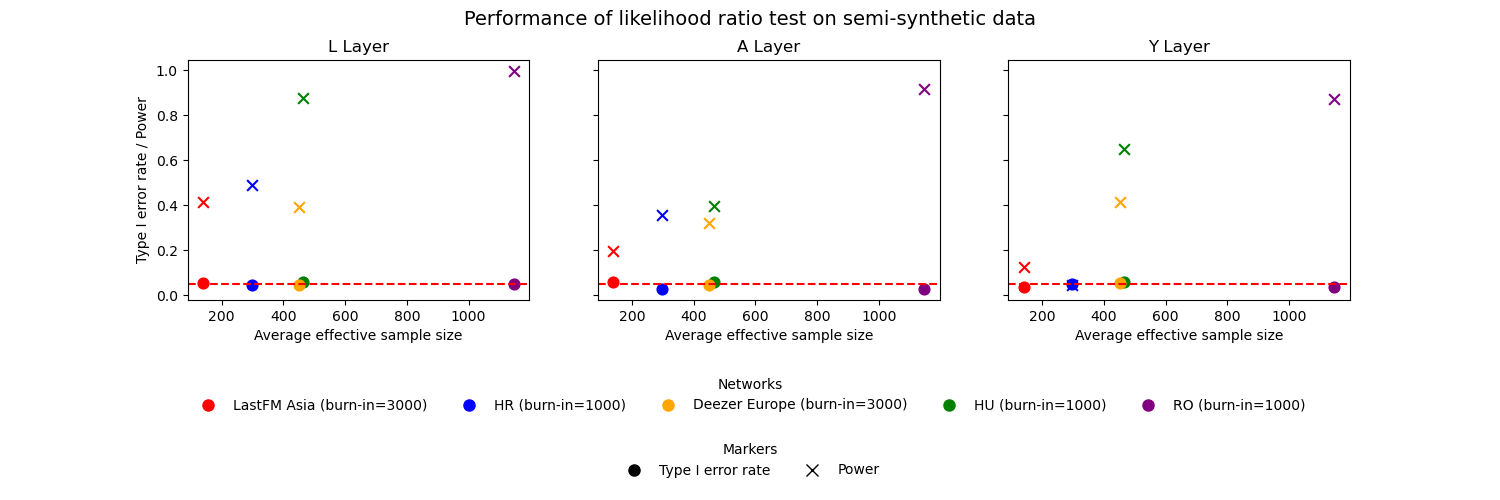
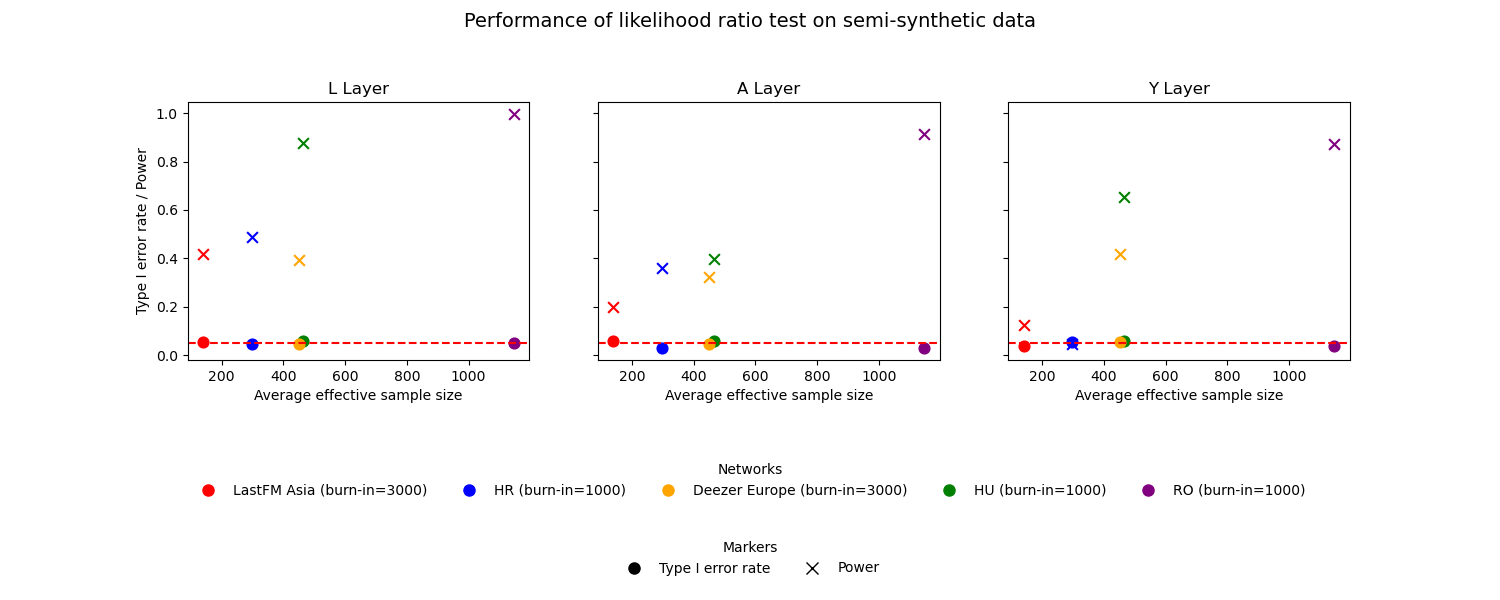
update spacing

diff --git a/contagion_vs_latent_confounding_test(semi-synthetic)/visualizer.py b/contagion_vs_latent_confounding_test(semi-synthetic)/visualizer.py
@@ -80,7 +80,7 @@ for net in NETWORK_NAMES:
 # --------------------------------------------------------------------
 # Plotting
 # --------------------------------------------------------------------
-fig, axes = plt.subplots(1, 3, figsize=(15, 5), sharey=True)
+fig, axes = plt.subplots(1, 3, figsize=(15, 6), sharey=True)
 
 outcomes = ["L", "A", "Y"]
 markers = {"type_I_error": "o", "power": "x"}  # Different markers
@@ -202,7 +202,8 @@ fig.suptitle(
     fontsize=14
 )
 
-# Ensure there's enough space for the legends at the bottom
+# Ensure there's enough space for the title and the legends 
+plt.subplots_adjust(top=0.83) 
 plt.subplots_adjust(bottom=0.4)
 
 # Finally, save the figure
